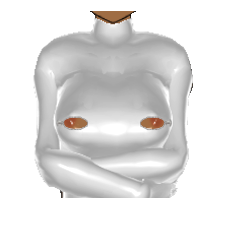
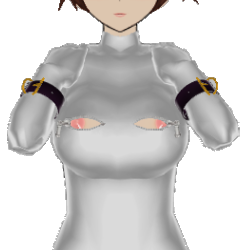
Update of petsuit

diff --git a/BondageClub/Assets/Female3DCG/Female3DCGExtended.js b/BondageClub/Assets/Female3DCG/Female3DCGExtended.js
@@ -1126,31 +1126,63 @@ var AssetFemale3DCGExtended = {
 			},
 		}, // CeilingShackles
 		BitchSuit: {
-			Archetype: ExtendedArchetype.TYPED,
+			Archetype: ExtendedArchetype.MODULAR,
 			Config: {
-				ChatTags: [CommonChatTags.SOURCE_CHAR, CommonChatTags.DEST_CHAR],
-				Options: [
+				ChatTags: [CommonChatTags.SOURCE_CHAR, CommonChatTags.DEST_CHAR, CommonChatTags.ASSET_NAME],
+				Modules: [
 					{
-						Name: "Zipped",
-						Property: {
-							Type: null,
-							Block: ["ItemPelvis", "ItemTorso", "ItemTorso2", "ItemHands", "ItemHandheld", "ItemBreast", "ItemNipples", "ItemNipplesPiercings", "ItemVulva", "ItemVulvaPiercings", "ItemButt"],
-							Hide: ["Bra", "Panties", "ItemNipples", "ItemNipplesPiercings", "ItemBreast", "Socks", "Suit", "SuitLower"],
-						}
+						Name: "Zipped", Key: "z",
+						Options: [
+							{ // z0 - Zipped up
+								Property: {
+									Type: "z1",
+									Block: ["ItemPelvis", "ItemTorso", "ItemTorso2", "ItemHands", "ItemHandheld", "ItemBreast", "ItemNipples", "ItemNipplesPiercings", "ItemVulva", "ItemVulvaPiercings", "ItemButt"],
+									Hide: ["Bra", "Panties", "ItemNipples", "ItemNipplesPiercings", "ItemBreast", "ItemVulva", "ItemVulvaPiercings", "Socks", "Suit", "SuitLower"],
+									
+								}
+							},
+							{ // z1 - Unzipped
+								Property: {
+									Type: "z3",
+									Block: ["ItemPelvis", "ItemTorso", "ItemTorso2", "ItemHands", "ItemHandheld"],
+								}
+							},
+							{ // z2 - Seemless
+								Property: {
+									Type: "z1",
+									Block: ["ItemPelvis", "ItemTorso", "ItemTorso2", "ItemHands", "ItemHandheld", "ItemBreast", "ItemNipples", "ItemNipplesPiercings", "ItemVulva", "ItemVulvaPiercings", "ItemButt"],
+									Hide: ["Bra", "Panties", "ItemNipples", "ItemNipplesPiercings", "ItemBreast", "ItemVulva", "ItemVulvaPiercings", "Socks", "Suit", "SuitLower"],
+									
+								}
+							},
+							{ // z3 - Exposed
+								Property: {
+									Type: "z4",
+									Block: ["ItemPelvis", "ItemTorso", "ItemTorso2", "ItemHands", "ItemHandheld"],
+								}
+							},
+						],
 					},
 					{
-						Name: "z1", // Unzipped
-						Property: {
-							Type: "z1",
-							Block: ["ItemPelvis", "ItemTorso", "ItemTorso2", "ItemHands", "ItemHandheld"],
-						}
+						Name: "Straps", Key: "st",
+						Options: [ 
+							{},
+							{ Property: { Difficulty: 3 }, },
+						],
 					},
 					{
-						Name: "z2", // Exposed
-						Property: {
-							Type: "z2",
-							Block: ["ItemPelvis", "ItemTorso", "ItemTorso2", "ItemHands", "ItemHandheld"],
-						}
+						Name: "Clothes", Key: "cl",
+						Options: [
+							{ Property: { Hide: ["Cloth", "ClothLower"], } },
+							{},
+						],
+					},
+					{
+						Name: "Underwear", Key: "un",
+						Options: [
+							{ Property: { Hide: ["Corset", "Garters"], } },
+							{ Property: { OverridePriority: 14, Hide: ["SuitLower", "Socks"], }, },
+						],
 					},
 				],
 				ChangeWhenLocked: false,

diff --git a/BondageClub/Assets/Female3DCG/Female3DCG.js b/BondageClub/Assets/Female3DCG/Female3DCG.js
@@ -4775,13 +4775,13 @@ var AssetFemale3DCG = [
 			},
 			{ Name: "DuctTape", Gender: "F", Prerequisite: ["HasBreasts"], Fetish: ["Tape"], Value: 50, Difficulty: 5, SelfBondage: 4, Time: 20, RemoveTime: 10, BuyGroup: "DuctTape", Audio: "DuctTapeRoll", HideItem: ["ItemNipplesLactationPump"], AllowPose: ["KneelingSpread"], SetPose: ["BackElbowTouch"], Effect: ["Block", "Prone"], Extended: true },
 			{
-				Name: "BitchSuit", Gender: "F", Fetish: ["Latex", "Pet"], Priority: 21, Value: 200, Difficulty: 15, SelfBondage: 8, Time: 40, RemoveTime: 30, Random: false, AllowLock: true, AllowTighten: true, Top: 150,
+				Name: "BitchSuit", Gender: "F", Fetish: ["Latex", "Pet"], Priority: 21, Value: 200, Difficulty: 12, SelfBondage: 8, Time: 40, RemoveTime: 30, Random: false, AllowLock: true, AllowTighten: true, Top: 150,
 				Prerequisite: ["NotSuspended", "NotHogtied", "NotMounted", "NotKneelingSpread", "NoFeetSpreader", "CanKneel", "HasBreasts"],
 				AllowPose: ["BackElbowTouch", "Kneel", "AllFours"],
 				AllowActivePose: ["BackElbowTouch", "Kneel", "AllFours"],
 				SetPose: ["BackElbowTouch", "Kneel"],
 				Effect: ["Block", "Prone", "ForceKneel", "Slow"],
-				Hide: ["Cloth", "ClothLower", "Shoes", "ItemBoots", "ItemLegs", "ItemFeet", "Corset", "Gloves", "Hands", "LeftHand", "RightHand", "ItemHandheld", "ItemHands", "Garters"],
+				Hide: ["Shoes", "ItemBoots", "ItemLegs", "ItemFeet", "Gloves", "Hands", "LeftHand", "RightHand", "ItemHandheld", "ItemHands"],
 				HideItem: ["ItemNipplesLactationPump", "ClothAccessoryPoncho", "NecklaceBodyChainNecklace", "SuitBlouse1", "BraLatexBunnySuit", "BraHeartTop", "BraCamisole", "BraStuddedHarness", "PantiesBikini1", "PantiesHarnessPanties2", "SocksSocks6", "SocksSocksFur"],
 				HideItemExclude: ["GartersDropBag"],
 				AllowActivityOn: ["ItemPelvis", "ItemTorso", "ItemTorso2", "ItemBreast", "ItemHands", "ItemHandheld"],
@@ -4792,13 +4792,13 @@ var AssetFemale3DCG = [
 				DefaultColor: ["#888888", "Default", "Default", "#9F7316", "Default"],
 				Layer: [
 					{ Name: "Latex", },
-					{ Name: "Latex_Closed", AllowTypes: [""], CopyLayerColor: "Latex", },
-					{ Name: "Zips", AllowTypes: [""], },
-					{ Name: "Latex_Open", AllowTypes: ["z1"], CopyLayerColor: "Latex", },
-					{ Name: "Zips_Open", AllowTypes: ["z1"], CopyLayerColor: "Zips", },
-					{ Name: "Straps", },
-					{ Name: "Buckles", },
-					{ Name: "Lock", ParentGroup: null, LockLayer: true },
+					{ Name: "Latex_Closed", AllowModuleTypes: ["z0", "z2"], CopyLayerColor: "Latex", },
+					{ Name: "Zips", AllowModuleTypes: ["z0"], },
+					{ Name: "Latex_Open", AllowModuleTypes: ["z1"], CopyLayerColor: "Latex", },
+					{ Name: "Zips_Open", AllowModuleTypes: ["z1"], CopyLayerColor: "Zips", },
+					{ Name: "Straps", AllowModuleTypes: ["st1"], },
+					{ Name: "Buckles", AllowModuleTypes: ["st1"], },
+					{ Name: "Lock", AllowModuleTypes: ["st1"], ParentGroup: null, LockLayer: true },
 				],
 				SelfUnlock: false
 			},
